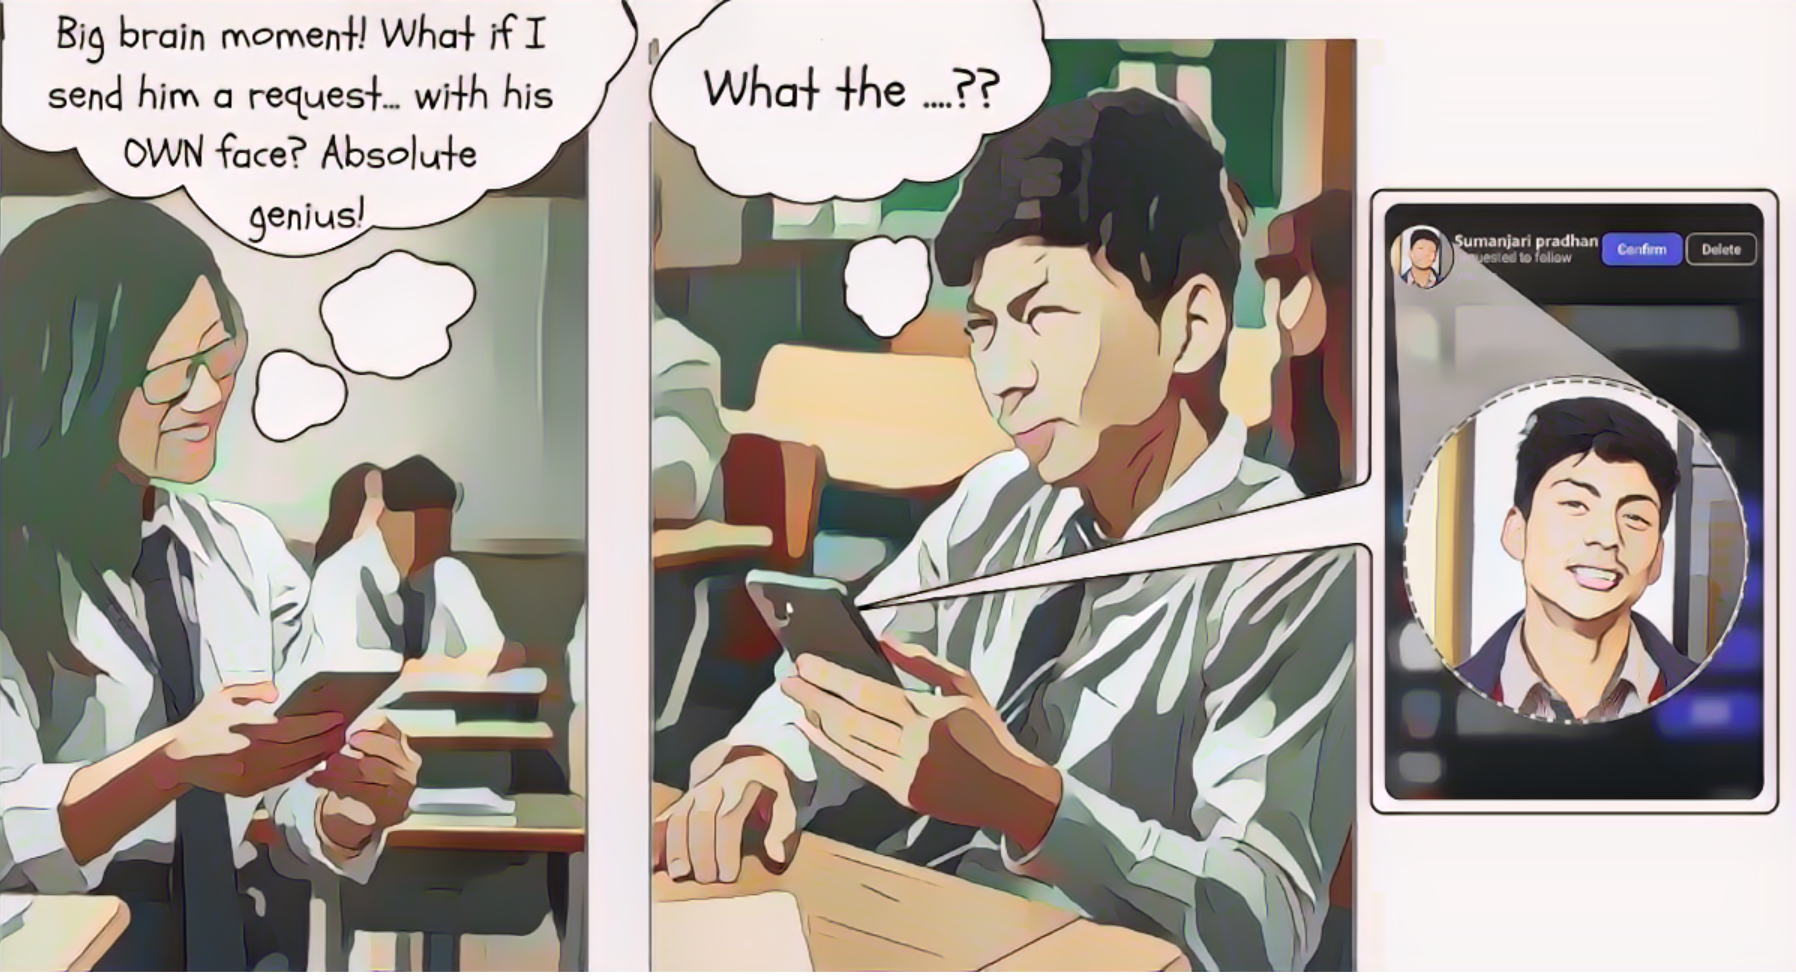
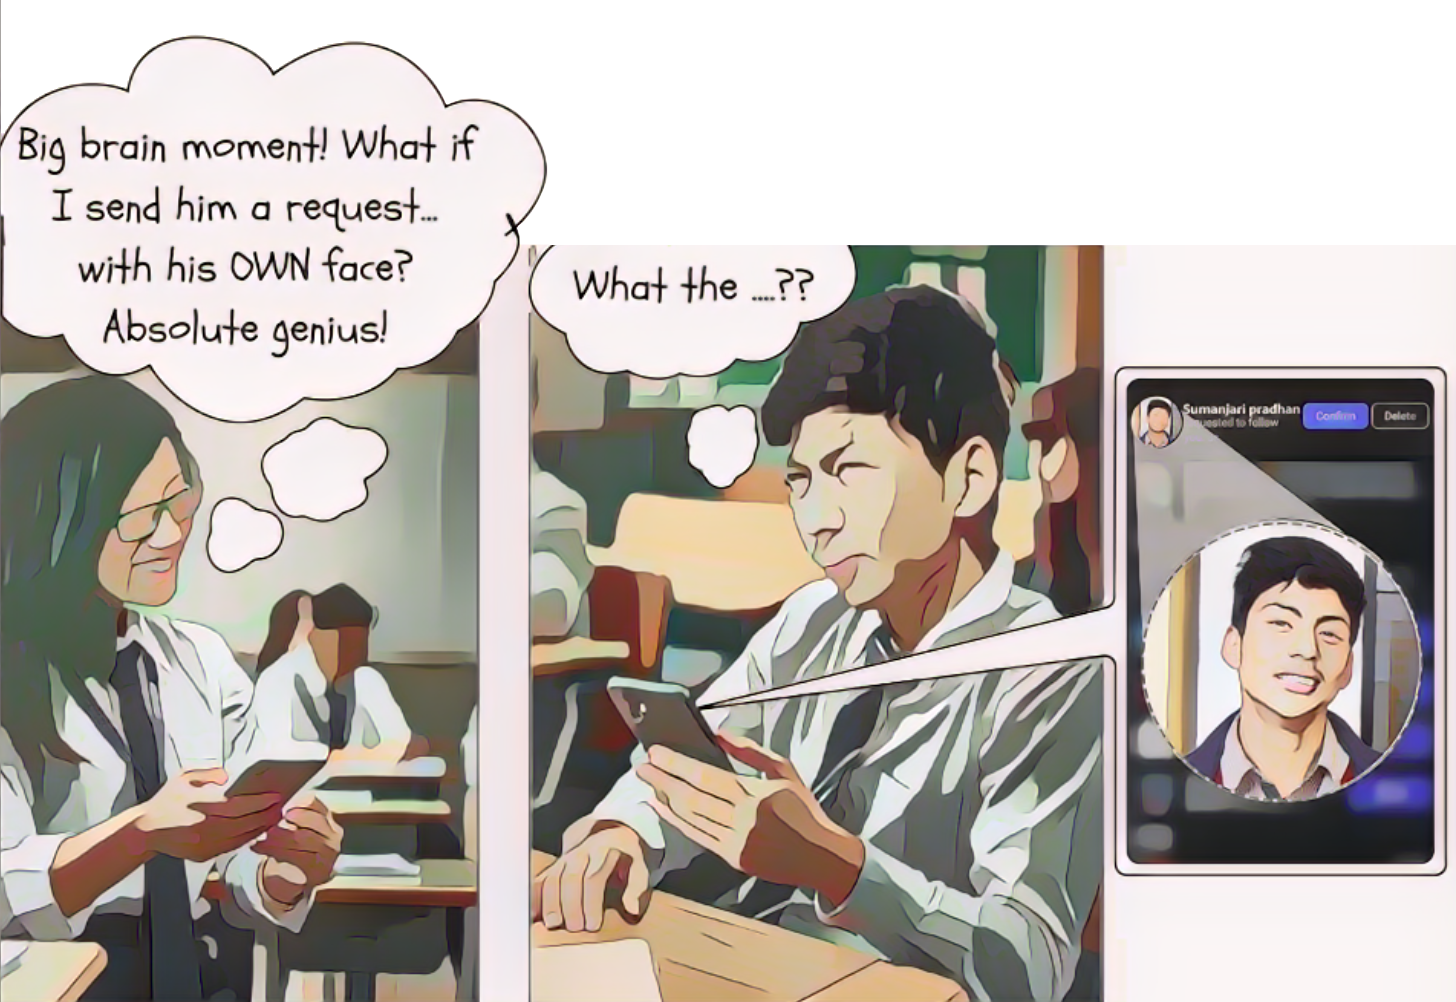
wedding image added

diff --git a/src/App.js b/src/App.js
@@ -25,6 +25,7 @@ import Yes from "./images/yes.png";
 import Guffy from "./images/guffy.png";
 import Cloud from "./images/cloud.png";
 import Genius from "./images/genius.png";
+import RaulJari from "./images/rauljari.png";
 
 import AnimatedSvg from "./components/AnimatedSvg";
 import { CollageViewer } from "./components/CollageViewer";
@@ -189,14 +190,19 @@ function App() {
             ref={page}
             className="flipbook-container rounded-lg shadow-2xl z-10 relative  h-[500px] max-w-[500px]"
           >
-            <div className="absolute top-0 -left-1 object-cover opacity-80  z-[1] w-[40px]">
+            <div className="absolute top-0  -left-1 object-cover opacity-80  z-[1] w-[40px]">
+              <div
+                className="bok-after"
+                onClick={() => book.current.pageFlip().flipPrev("top")}
+              />{" "}
               <img
                 style={{ width: width }}
-                className=" h-[500px] object-contain max-w-full rounded shadow-xl"
+                className=" h-[500px] object-contain max-w-full  rounded shadow-xl"
                 src={SpiralImage}
                 alt="cover"
               />
             </div>
+
             {!showSwiper && (
               <div
                 className={`absolute top-0 flex items-center justify-center opacity-30  h-full  !z-[1000] w-full ${
@@ -249,7 +255,8 @@ function App() {
               <div className="demoPage" data-density="hard">
                 <ImageViewer
                   imageUrl={Genius}
-                  className="!max-h-[220px]"
+                  background="h-[180px] relative"
+                  className="!h-[250px] !w-[300px] block  !max-h-[250px] -translate-y-[70px]  bottom-0"
                   text="And she made her presence known — just enough
 "
                 />
@@ -313,7 +320,7 @@ function App() {
               </div>
               <div className="demoPage" data-density="hard">
                 <ImageViewer
-                  imageUrl={GemsImage}
+                  imageUrl={RaulJari}
                   header="2025/02/13"
                   text={`Rahul  ♡ Jari`}
                 />

diff --git a/src/components/ImageViewer.js b/src/components/ImageViewer.js
@@ -1,6 +1,13 @@
 import React from "react";
 
-const ImageViewer = ({ imageUrl, text, className, header, textClass }) => {
+const ImageViewer = ({
+  imageUrl,
+  text,
+  className,
+  header,
+  textClass,
+  background,
+}) => {
   return (
     <div
       className={`flex relative items-center outline outline-black  my-auto justify-center  `}
@@ -13,7 +20,9 @@ const ImageViewer = ({ imageUrl, text, className, header, textClass }) => {
         ) : (
           <div className="h-20" />
         )}
-        <div className="p-2 bg-gray-100 border border-gray-700 shadow ">
+        <div
+          className={`p-2 bg-gray-100  border border-gray-700 shadow ${background} `}
+        >
           <img
             className={` object-contain max-h-[180px] ${className}  `}
             src={imageUrl}

diff --git a/src/App.css b/src/App.css
@@ -147,13 +147,13 @@ svg,
   /* max-width: 500px;  */
   margin: 0 auto; /* Optional: Center */
 }
-.flipbook-container::after {
+.bok-after {
   position: absolute;
   content: " ";
   height: 100%;
   width: 80px;
   top: 0;
-  left: 0;
+  left: 00px;
   z-index: 1;
   background: linear-gradient(
     to left,
